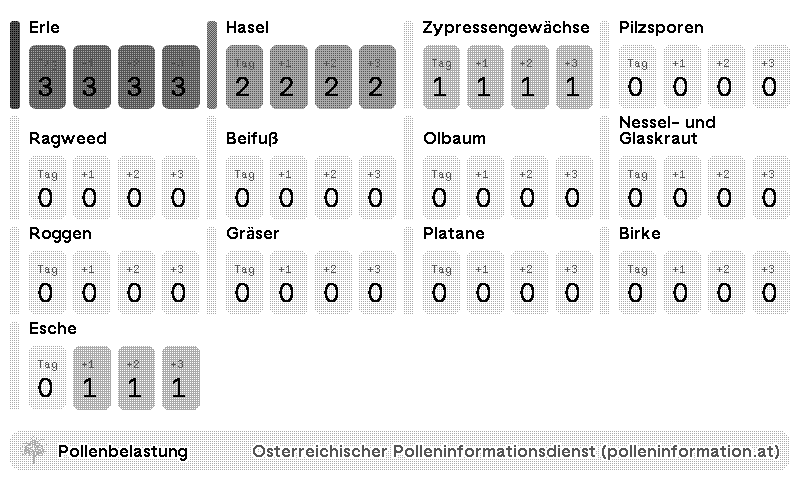
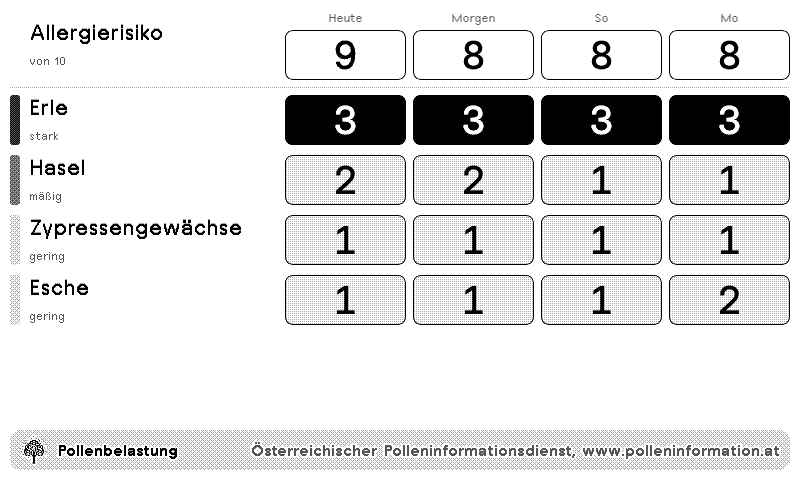
Update screenshots

diff --git a/README.md b/README.md
@@ -1,7 +1,7 @@
 <img src="images/icon.png" alt="icon" height="100">
 
 # TRMNL Pollen Information Austria
-<img src="images/image1.png" alt="Image 1" width="400">
+<img src="images/image1.png" alt="Full view on TRMNL OG" width="400"> <img src="images/image2.png" alt="Full view on TRMNL X" width="400">
 
 
 A TRMNL plug-in that displays current pollen levels for Austria using data from the Österreichischer Polleninformationsdienst. Shows the allergy risk and each pollen type's level for today and the next 3 days, with optional filtering by pollen name.
